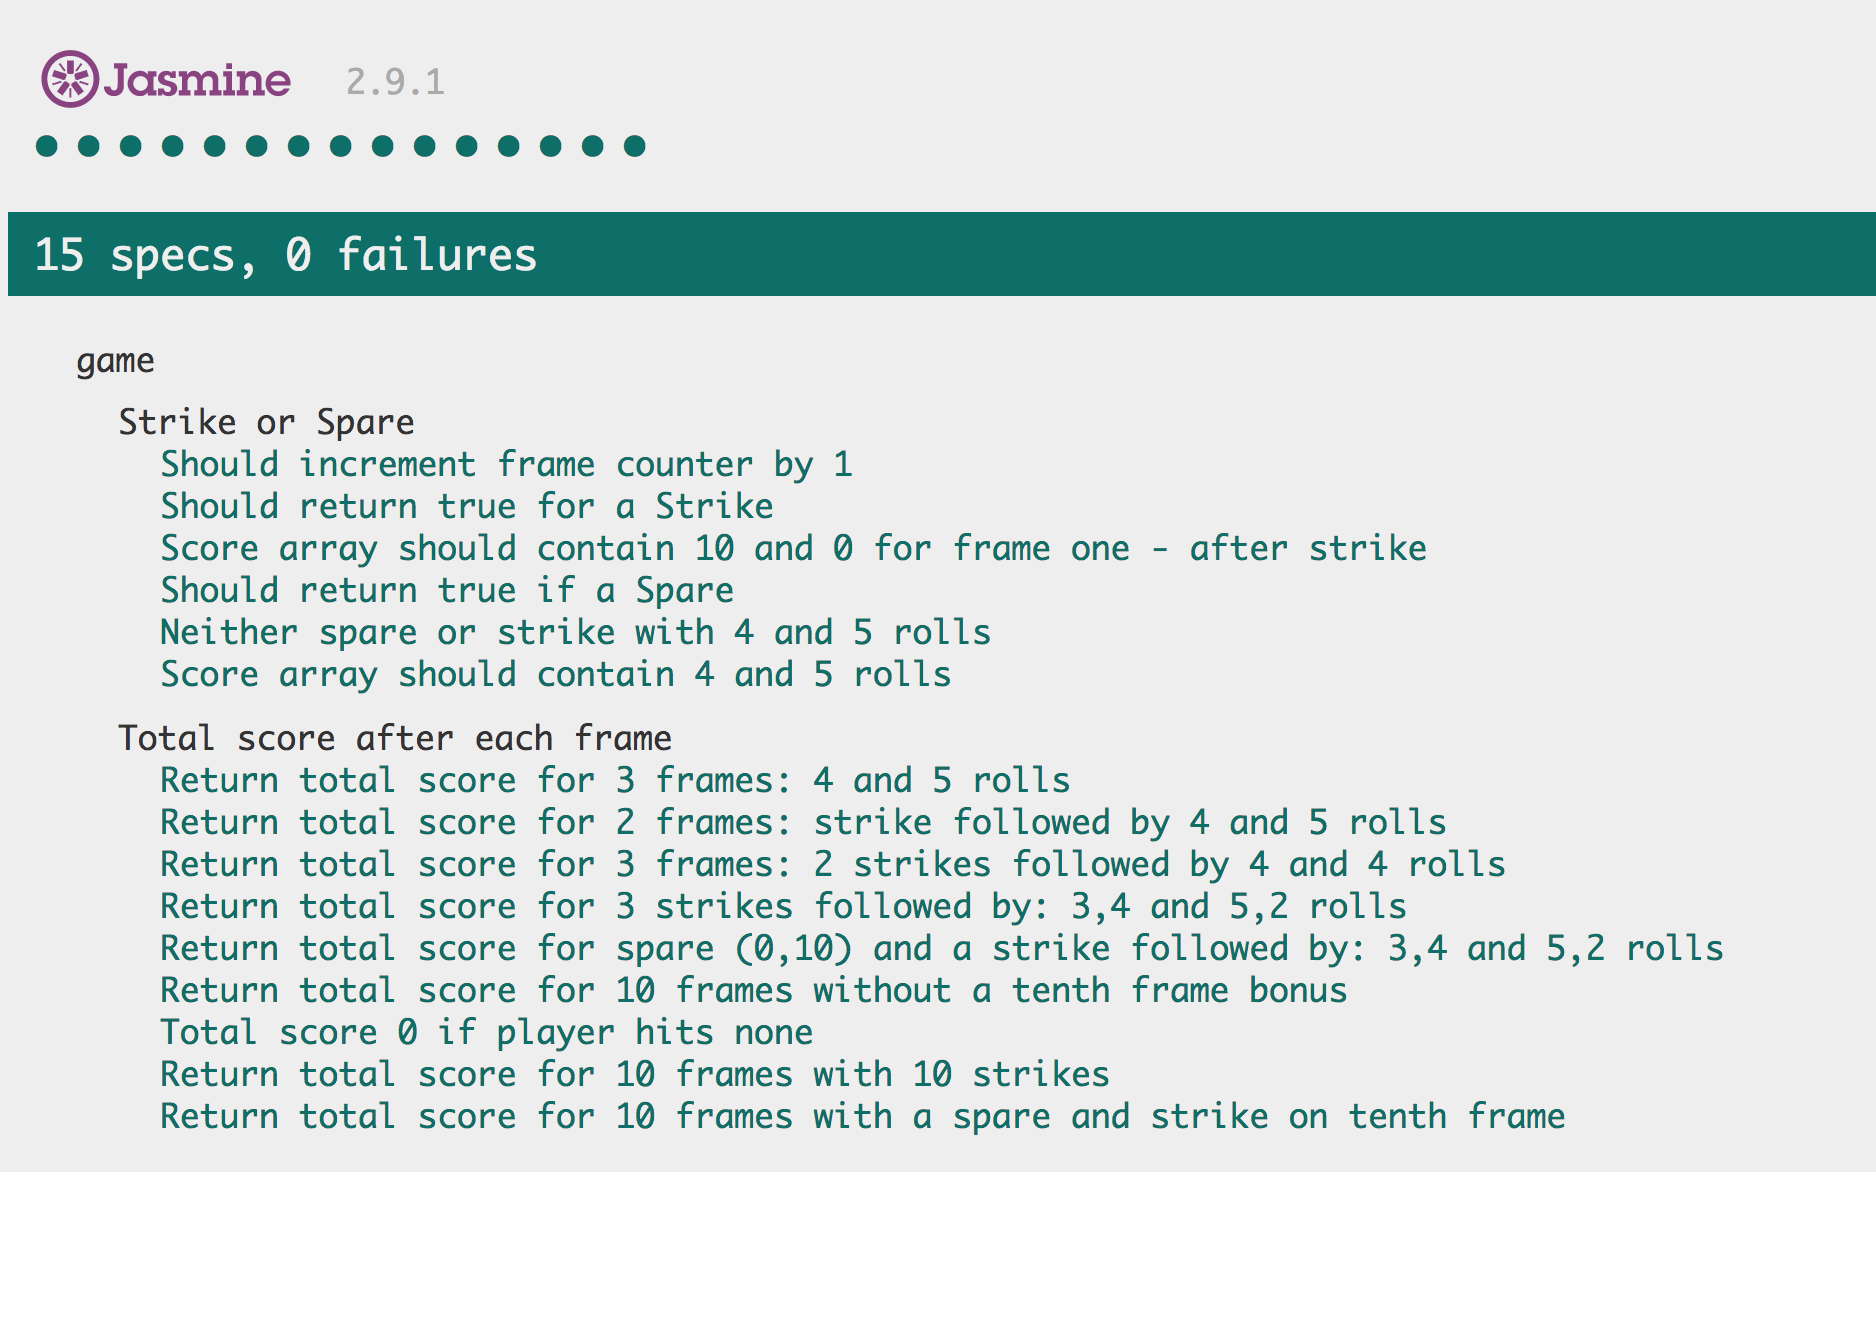
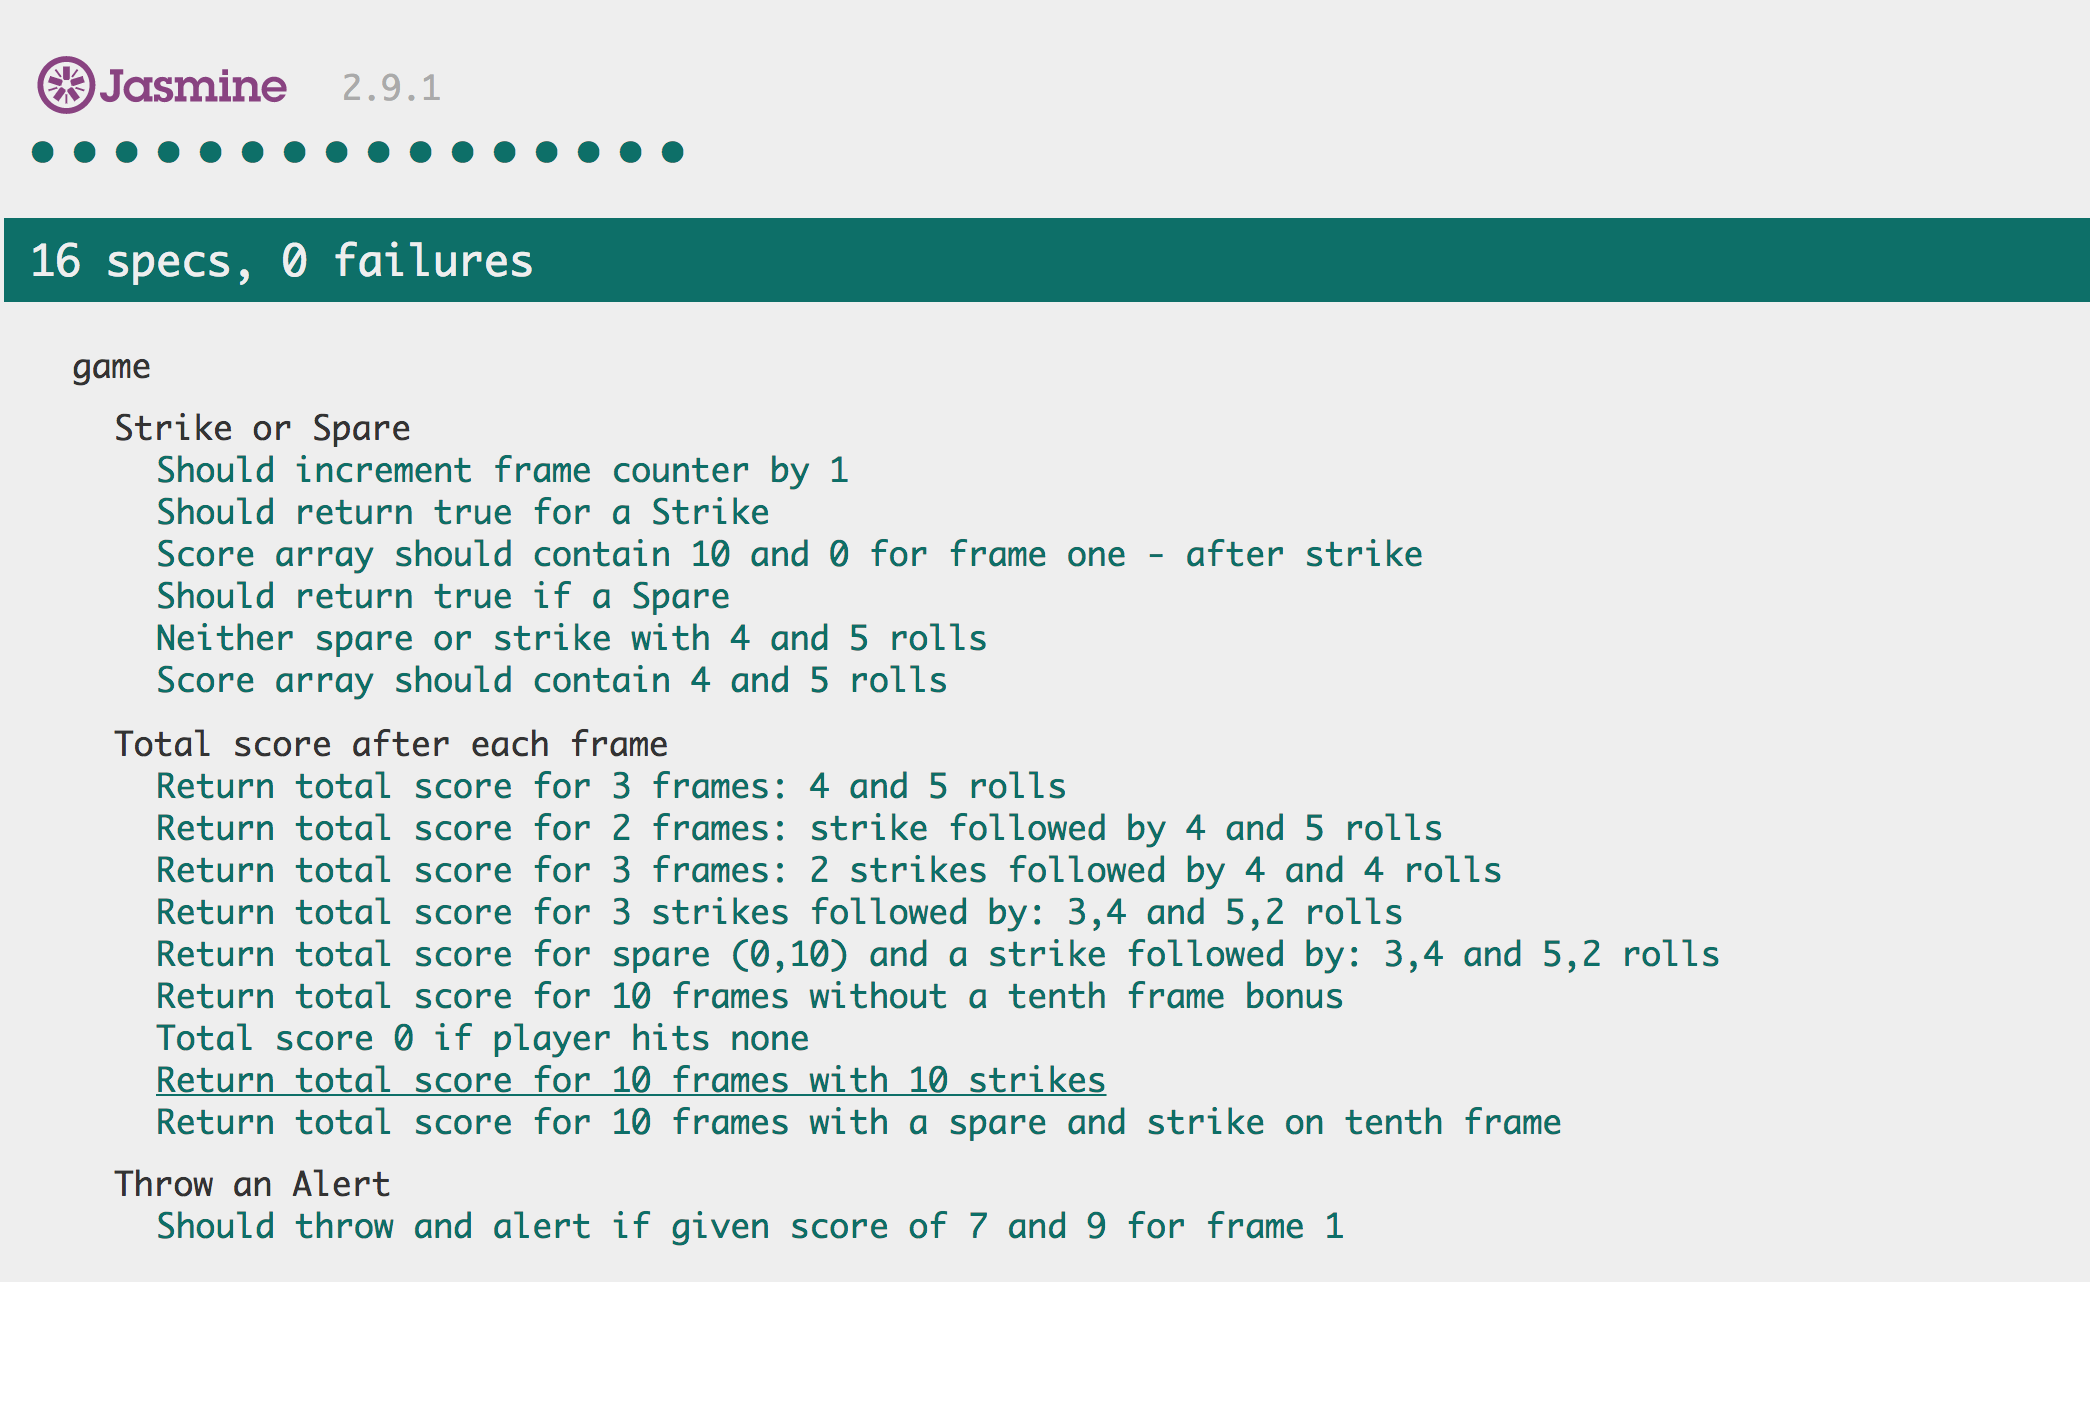
tested green for alert message when incorrect score has been put in

Changed region(s): [[0.0, 0.1544, 1.0, 0.8953], [0.0, 0.0309, 0.3401, 0.1235], [0.8657, 0.7101, 0.9275, 0.741]]

diff --git a/src/game.js b/src/game.js
@@ -41,15 +41,19 @@ Game.prototype.scoreTotal = function (frame) {
 Game.prototype.pinsDroppedEachRoll = function (pinsdropped) {
   var self = this;
 
-  if (self.isStrike(pinsdropped)) {
-
-  } else if (self.isSpare(pinsdropped)) {
-
+  if (self.isIncorrectScore(pinsdropped)) {
+    self.alert();
   } else {
-    self.scoreArray.push(pinsdropped);
-    self.displayResult(pinsdropped);
-  }
-  self.frameCounter += 1;
+    if (self.isStrike(pinsdropped)) {
+
+    } else if (self.isSpare(pinsdropped)) {
+
+    } else {
+      self.scoreArray.push(pinsdropped);
+      self.displayResult(pinsdropped);
+    }
+    self.frameCounter += 1;
+}
 };
 
 
@@ -140,4 +144,19 @@ Game.prototype.tenthFrame = function () {
 
 Game.prototype.frameTotal = function (index) {
   return this.scoreArray[index] + this.scoreArray[index + 1] || 0;
+};
+
+Game.prototype.alert = function () {
+  alert("Incorrect Score");
+};
+
+Game.prototype.isIncorrectScore = function (pinsdropped) {
+  var self = this;
+
+  if (self.tenthFrame()) {
+    return self.frameCounter % 2 !== 0 && (pinsdropped + self.scoreArray[self.frameCounter - 1] > 30);
+  } else {
+    return self.frameCounter % 2 !== 0 && (pinsdropped + self.scoreArray[self.frameCounter - 1] > 10);
+  }
+
 };

diff --git a/spec/gameSpec.js b/spec/gameSpec.js
@@ -188,5 +188,13 @@ describe('game', function () {
     });
   });
 
+  describe('Throw an Alert', function () {
+    it('Should throw an alert if given score of 7 and 9 for frame 1', function () {
+      spyOn(game, "alert").and.returnValue("Incorrect Score");
+      game.startGame(7);
+      game.startGame(10);
 
+      expect(game.alert()).toEqual("Incorrect Score");
+    });
+  });
 });
